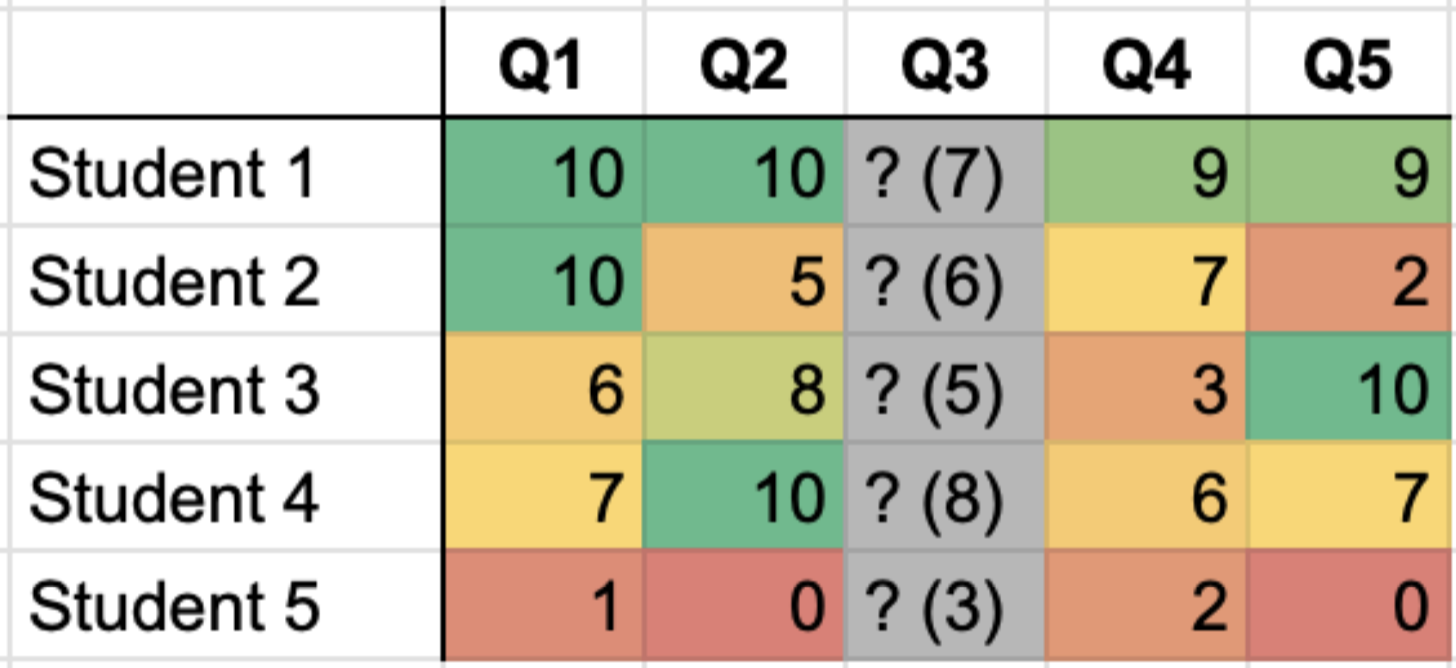
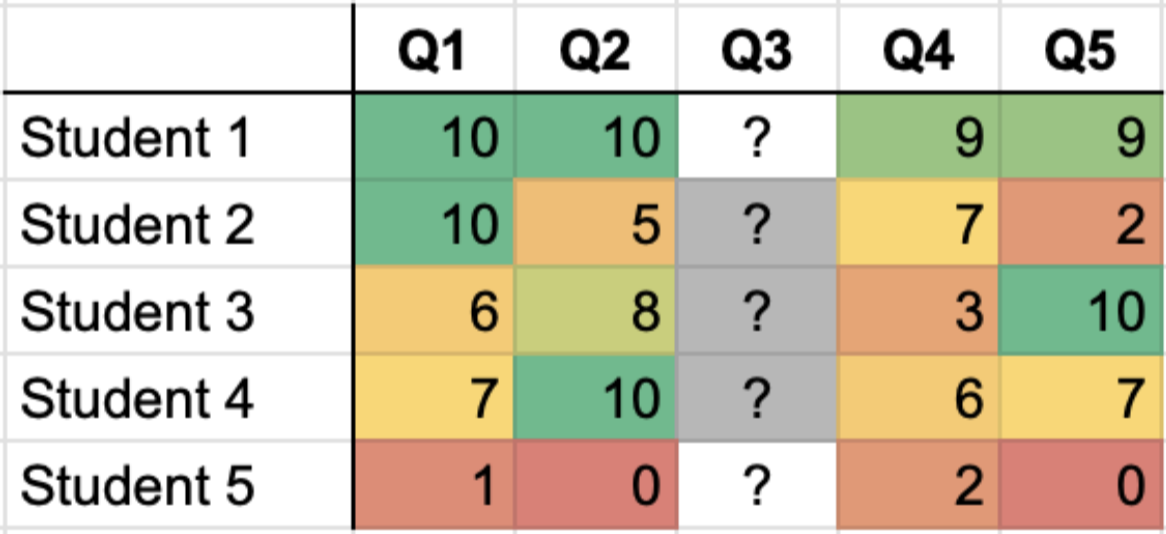
Improved figure and formulations

diff --git a/5.Proposed-solution/automatic-solution.md b/5.Proposed-solution/automatic-solution.md
@@ -18,10 +18,10 @@ The evaluation workload is split into automatic/manual parts in two dimensions: 
 
 ![alt text](gradings.png)
 
-1. AI system can evaluate all questions except Q3 with sufficient precision. It still produces grades for Q3 but they are less reliable. Human evaluators only need to grade question 3.
+1. AI system can evaluate all questions except Q3 with sufficient precision. Human evaluators only need to grade question 3.
 2. Student 1 received very high grades in questions 1,2,4,5 reliably evaluated by AI. This student passes the test automatically without even grading the remaining question 3. Likewise, student 5 received all low grades in automatically evaluated questions and fails the test automatically without evaluating question 3.
 
-The remaining manual work consists of grading question 3 for students 2,3,4 whose pass of failing depends on the outcomes of manual grading, and cannot be predicted with AI from the available data with enough precision.
+The remaining manual work consists of grading question 3 for students 2,3,4 (shown in gray) whose pass of failing depends on the outcomes of manual grading, and cannot be predicted with AI from the available data with enough precision.
 
 **Important:**  The decisions of which questions to grade with AI and which students to pass/fail with AI are computed on the existing dataset of 120,000 certifications. These are valid for only one AI model, and need to be re-adjusted for different models and different model settings.
 
